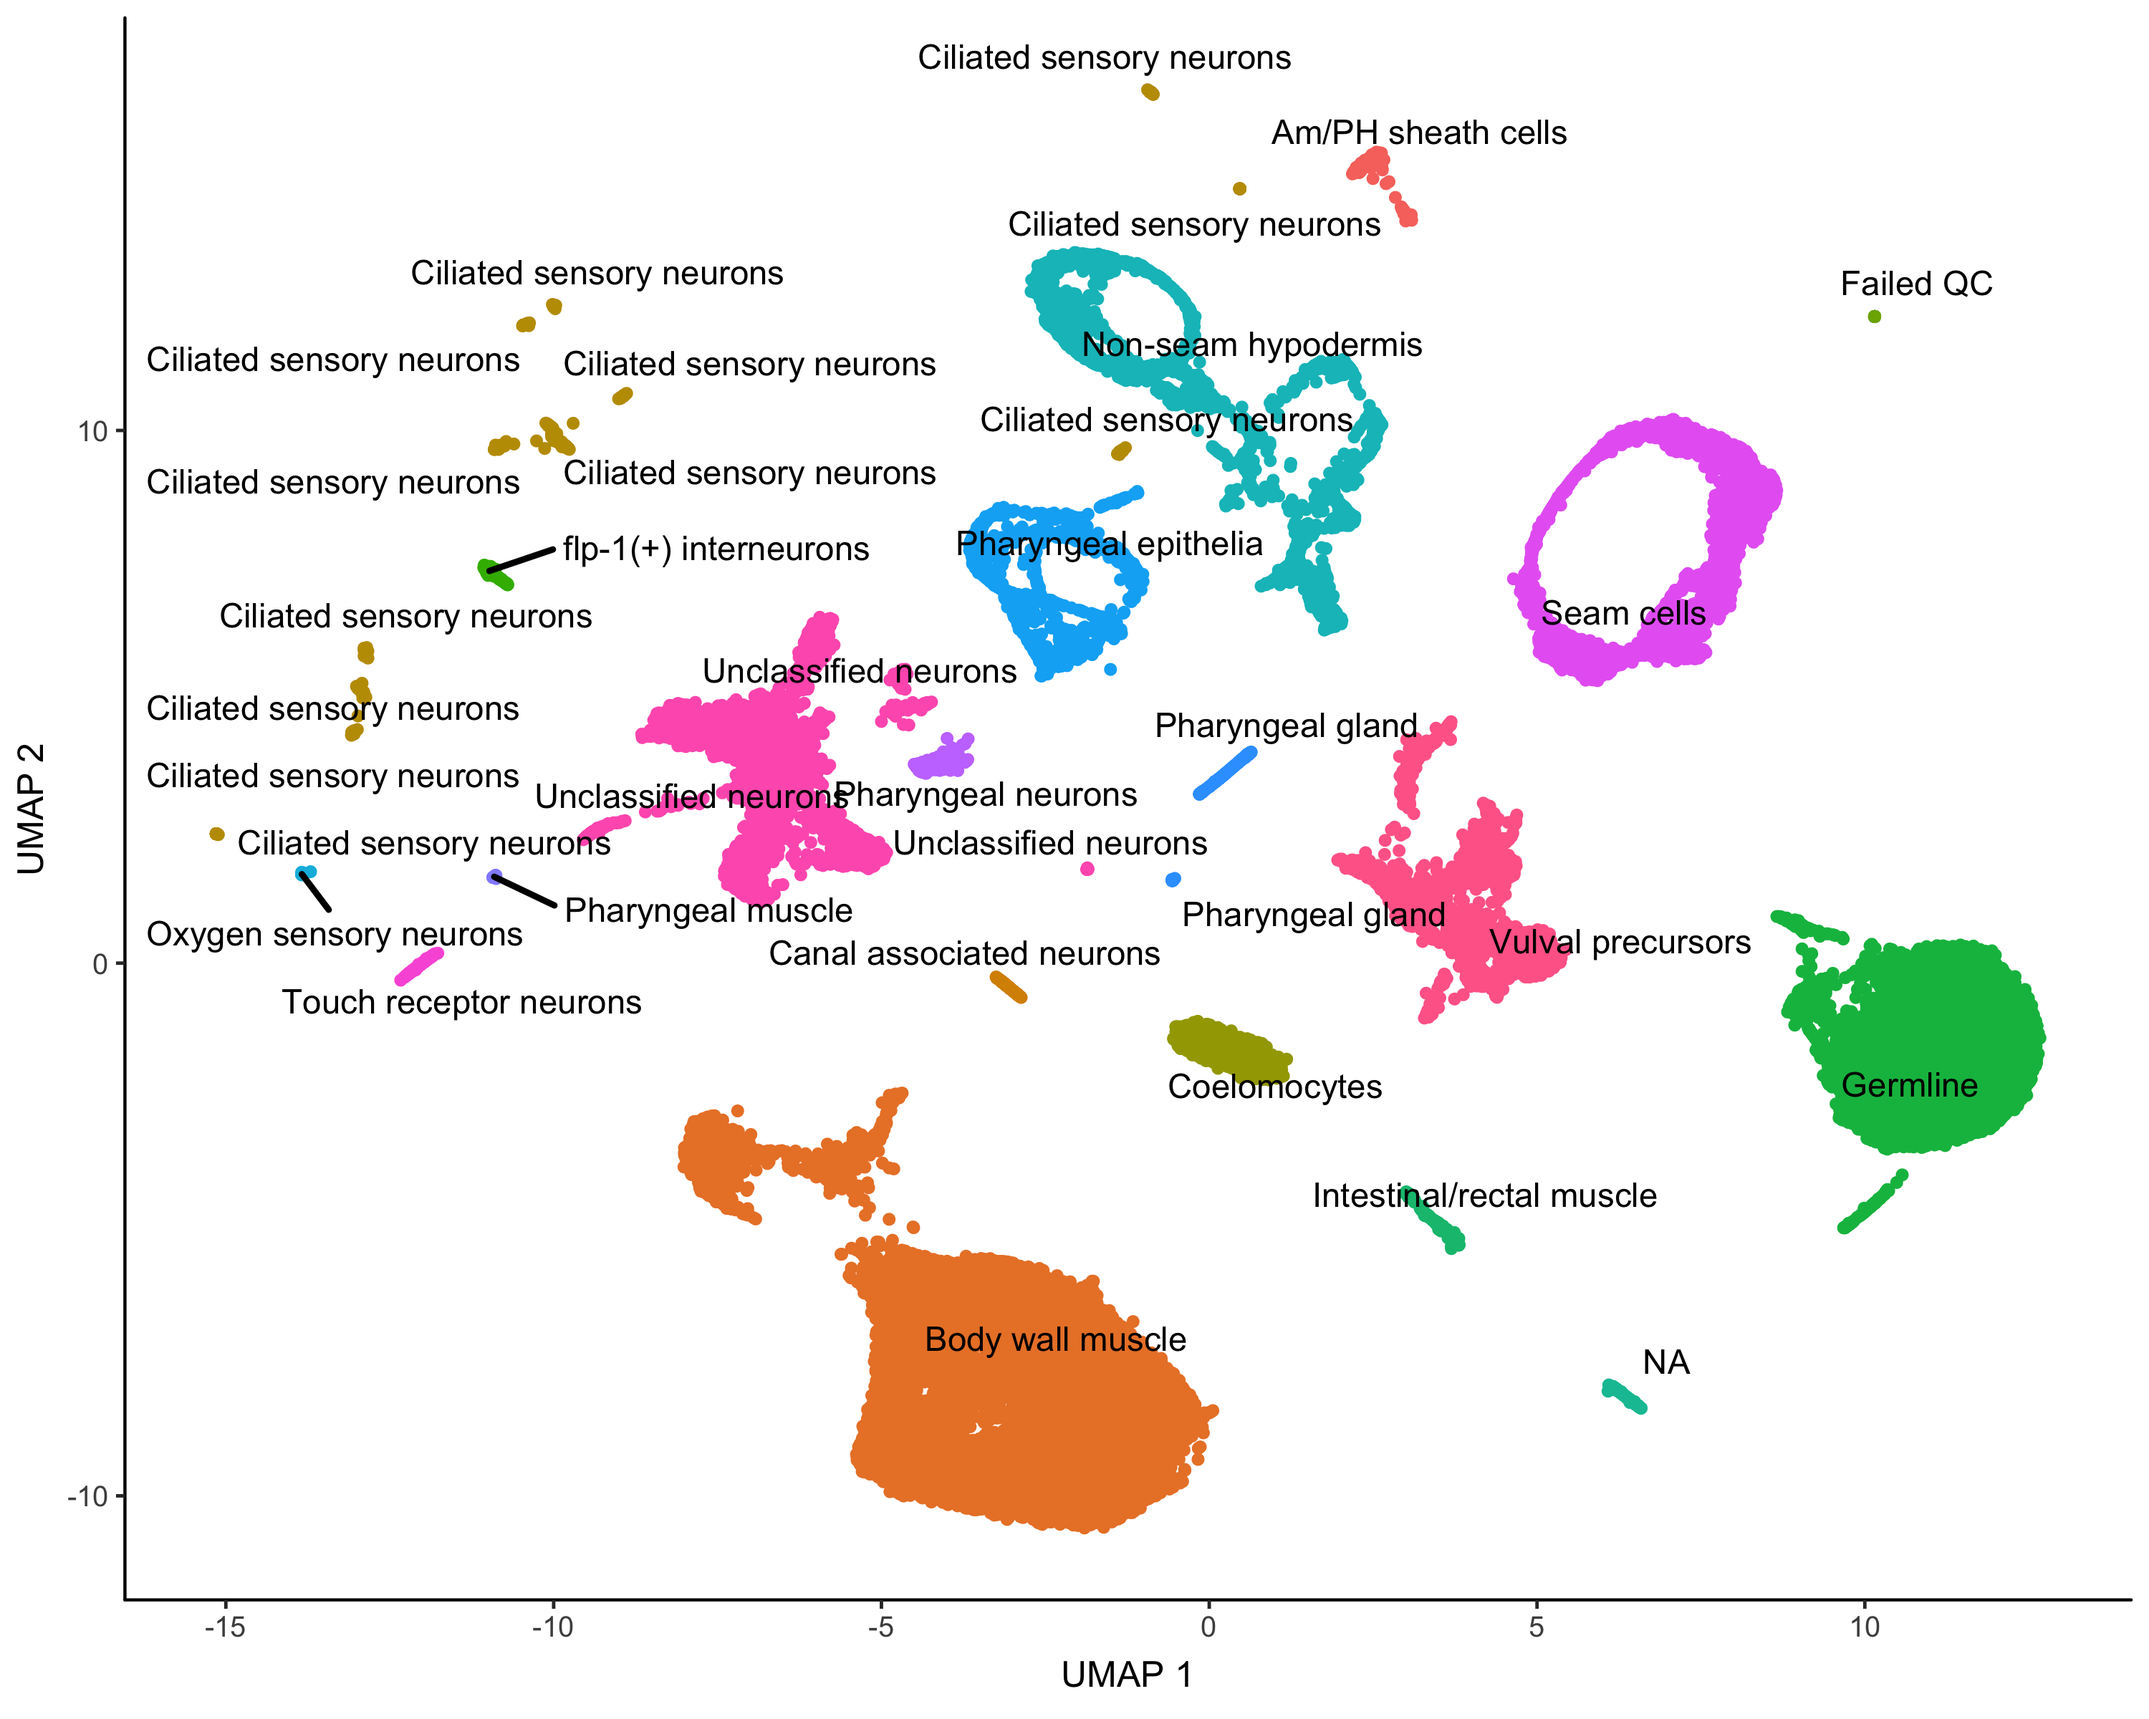
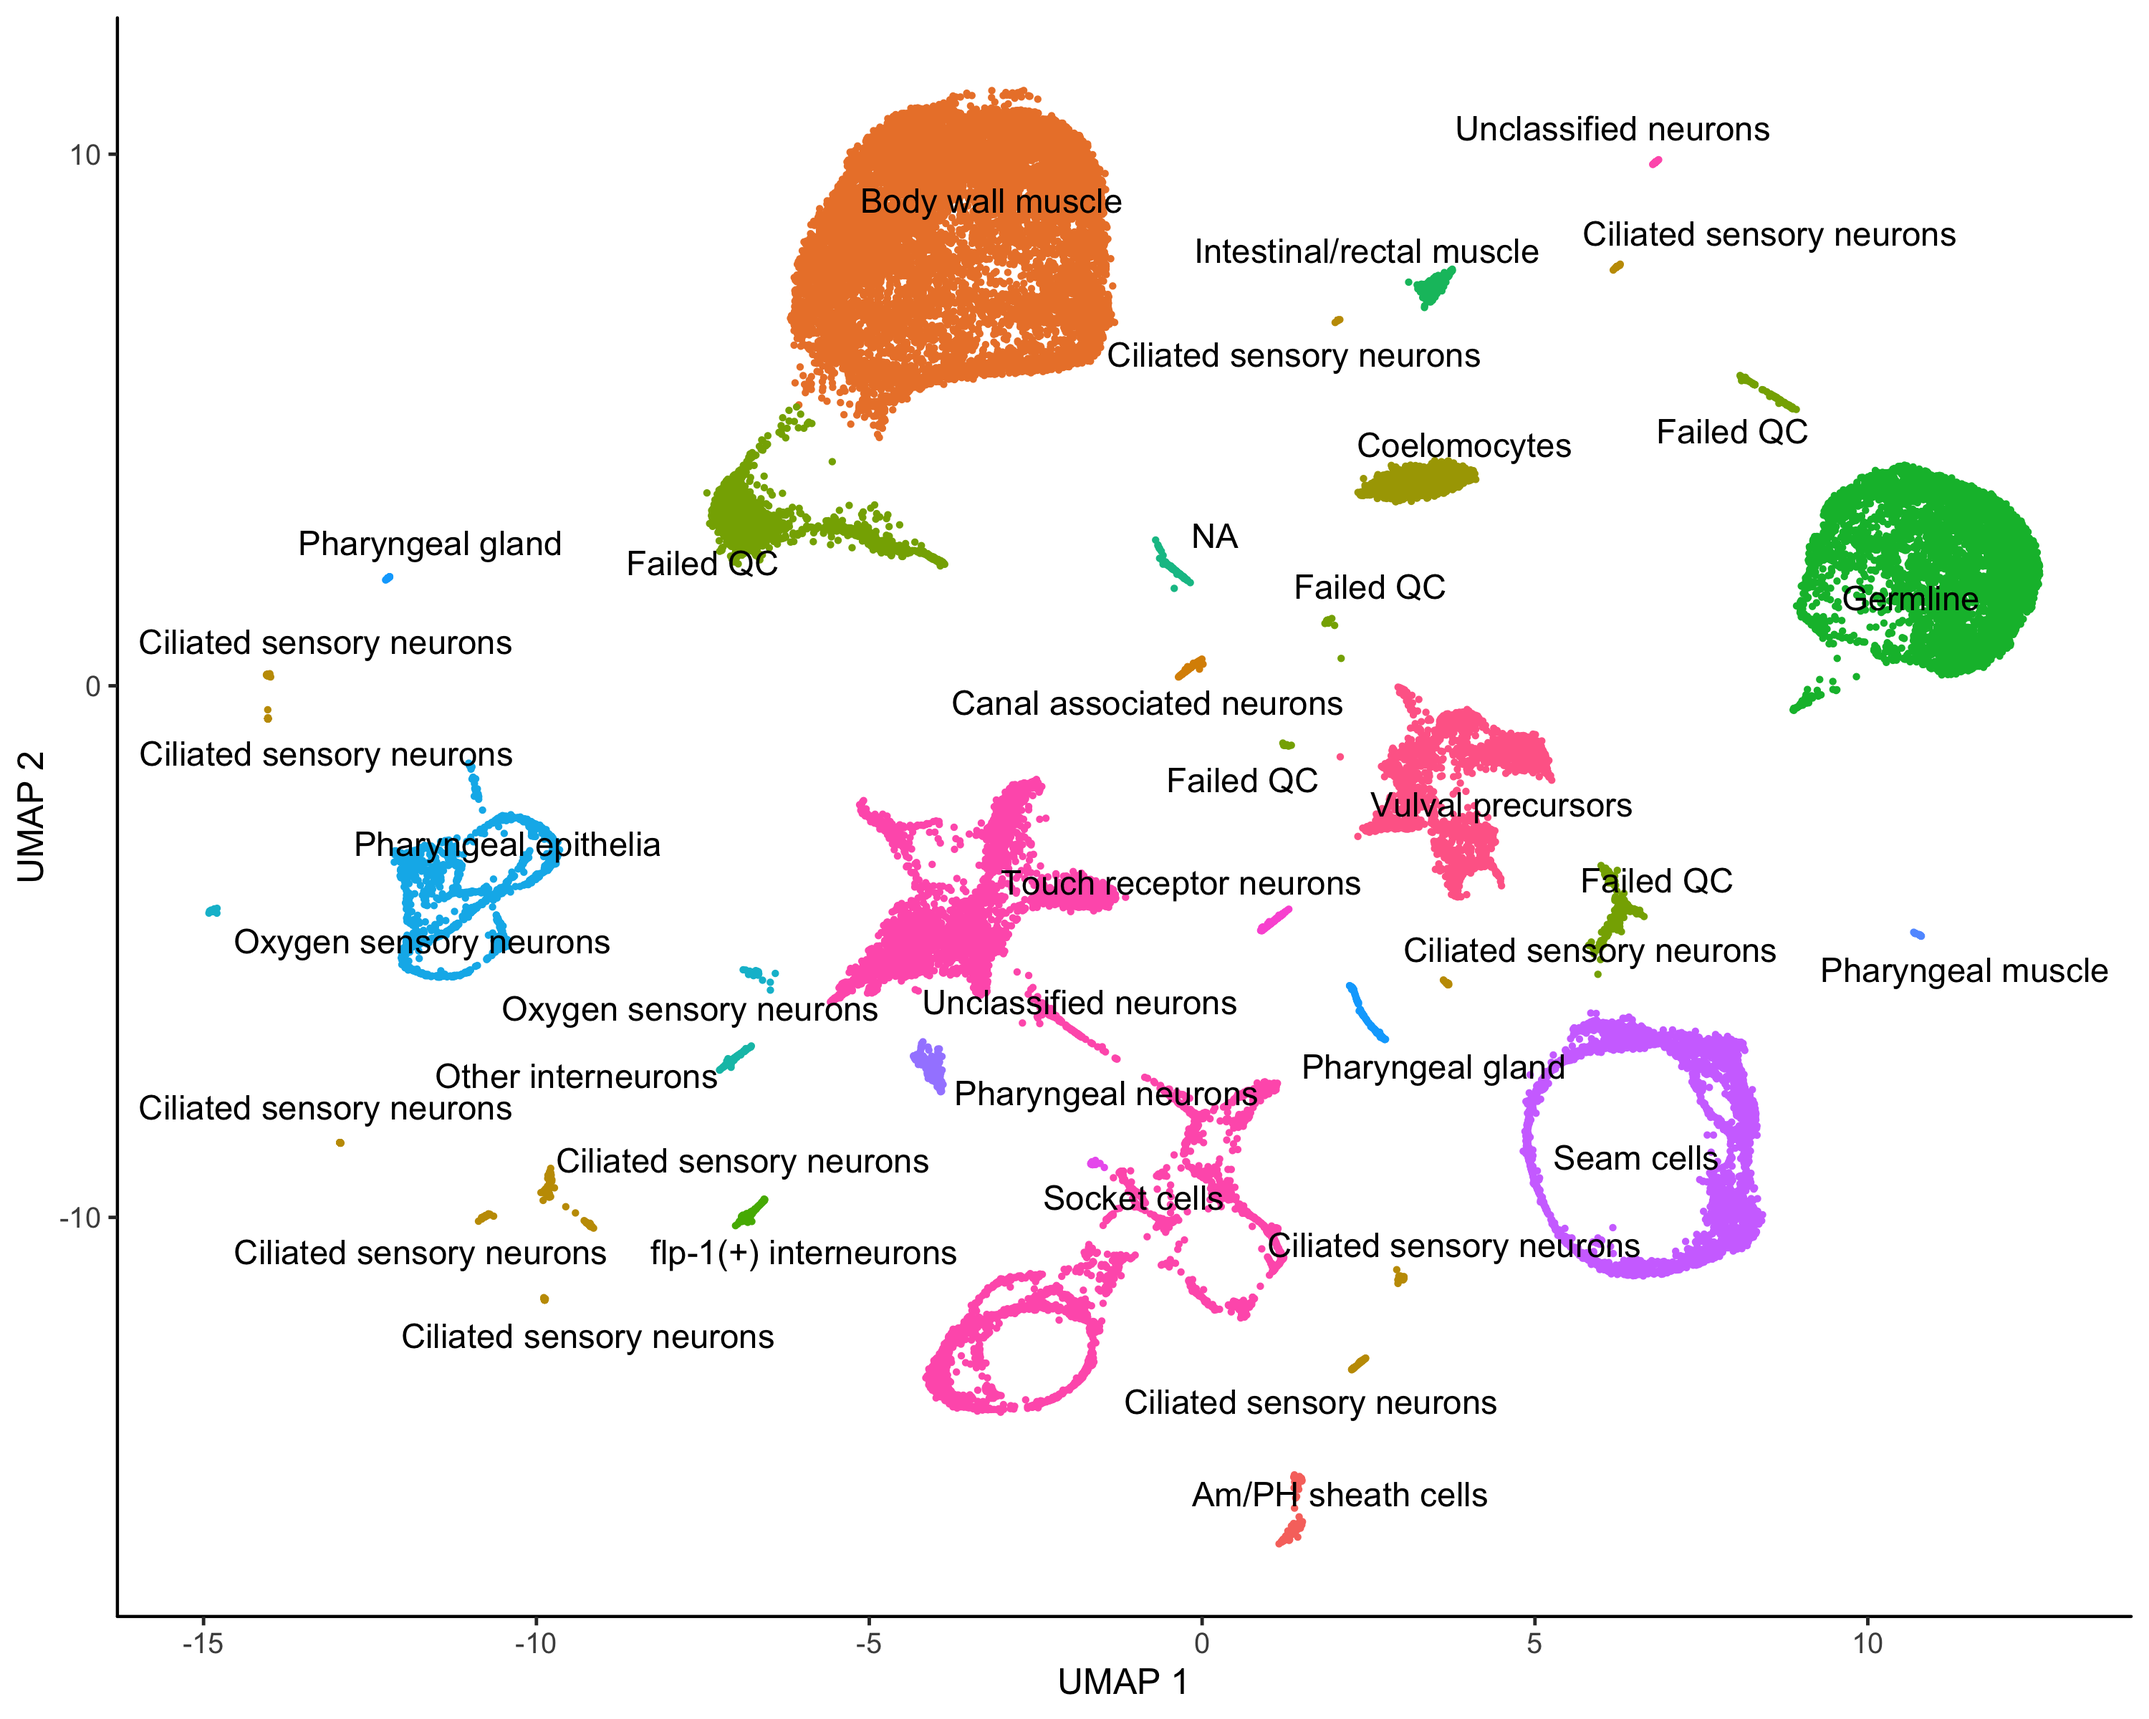
update images in clustering section for leiden and alignment

diff --git a/docs/clustering.html b/docs/clustering.html
@@ -246,11 +246,11 @@ plot_cells(cds, color_cells_by="plate", label_cell_groups=FALSE)
       <p>Dramatic batch effects are not evident in this data. If the data contained more substantial variation due to plate, we'd expect to see groups of cells that really only come from one plate. Nevertheless, we can try and remove what batch effect is by running the <code>align_cds()</code> function: </p>
 
       
-      {% highlight R %}
-      cds = align_cds(cds, num_dim = 100, alignment_group = "~ plate")
-      cds = reduce_dimension(cds)
-      plot_cells(cds, color_cells_by="plate", label_cell_groups=FALSE)
-      {% endhighlight %}
+{% highlight R %}
+cds = align_cds(cds, num_dim = 100, alignment_group = "~ plate")
+cds = reduce_dimension(cds)
+plot_cells(cds, color_cells_by="plate", label_cell_groups=FALSE)
+{% endhighlight %}
       
 
       <p>When run with the <code>alignment_group</code> argument, <code>align_cds()</code> tries to remove batch effects using <a href="https://doi.org/10.1038/nbt.4091">mutual nearest neighbor alignment</a>, a technique introduced by John Marioni's lab. Monocle 3 does so by calling Aaron Lun's excellent package <a href="https://bioconductor.org/packages/release/bioc/html/batchelor.html">batchelor</a>. If you use <code>align_cds()</code>, be sure to call <a href="{{ site.baseurl }}/monocle3_docs/#citations"><code>get_citations()</code></a> to see how you should cite the software on which Monocle depends. </p>
@@ -271,7 +271,7 @@ plot_cells(cds)
 {% endhighlight %}
       
       <div class= "text-center">
-        <img src= "{{site.baseurl}}/images/manual_images/L2_umap_color_by_cluster.png" width= 760>
+        <img src= "{{site.baseurl}}/images/manual_images/L2_umap_color_cells_by_cluster.png" width= 760>
       </div>
       
       <p>
@@ -423,41 +423,45 @@ colData(cds)$assigned_cell_type <- as.character(partitions(cds))
         remap each cluster to a different cell type:
       </p>
 {% highlight R %}
-colData(cds)$assigned_cell_type <- dplyr::recode(colData(cds)$assigned_cell_type,
-                                                 "1"="Body wall muscle",
-                                                 "2"="Germline",
-                                                 "3"="Unclassified neurons",
-                                                 "4"="Seam cells",
-                                                 "5"="Coelomocytes",
-                                                 "6"="Pharyngeal epithelia",
-                                                 "7"="Vulval precursors",
-                                                 "8"="Non-seam hypodermis",
-                                                 "9"="Intestinal/rectal muscle",
-                                                 "10"="Touch receptor neurons",
-                                                 "11"="Pharyngeal neurons",
-                                                 "12"="Am/PH sheath cells",
-                                                 "13"="NA",
-                                                 "14"="Unclassified neurons",
-                                                 "15"="flp-1(+) interneurons",
-                                                 "16"="Canal associated neurons",
-                                                 "17"="Pharyngeal gland",
-                                                 "18"="Other interneurons",
-                                                 "19"="Ciliated sensory neurons",
-                                                 "20"="Ciliated sensory neurons",
-                                                 "21"="Ciliated sensory neurons",
-                                                 "22"="Ciliated sensory neurons",
-                                                 "23"="Ciliated sensory neurons",
-                                                 "24"="Ciliated sensory neurons",
-                                                 "25"="Oxygen sensory neurons",
-                                                 "26"="Ciliated sensory neurons",
-                                                 "27"="Unclassified neurons",
-                                                 "28"="Pharyngeal gland",
-                                                 "29"="Ciliated sensory neurons",
-                                                 "30"="Ciliated sensory neurons",
-                                                 "31"="Ciliated sensory neurons",
-                                                 "32"="Ciliated sensory neurons",
-                                                 "33"="Pharyngeal muscle",
-                                                 "34"="Failed QC")
+colData(cds)$assigned_cell_type = dplyr::recode(colData(cds)$assigned_cell_type,
+                                                "1"="Germline",
+                                                "2"="Body wall muscle",
+                                                "3"="Unclassified neurons",
+                                                "4"="Vulval precursors",
+                                                "5"="Failed QC",
+                                                "6"="Seam cells",
+                                                "7"="Pharyngeal epithelia",
+                                                "8"="Coelomocytes",
+                                                "9"="Am/PH sheath cells",
+                                                "10"="Failed QC",
+                                                "11"="Touch receptor neurons",
+                                                "12"="Intestinal/rectal muscle",
+                                                "13"="Pharyngeal neurons",
+                                                "14"="NA",
+                                                "15"="flp-1(+) interneurons",
+                                                "16"="Canal associated neurons",
+                                                "17"="Ciliated sensory neurons",
+                                                "18"="Other interneurons",
+                                                "19"="Pharyngeal gland",
+                                                "20"="Failed QC",
+                                                "21"="Ciliated sensory neurons",
+                                                "22"="Oxygen sensory neurons",
+                                                "23"="Ciliated sensory neurons",
+                                                "24"="Ciliated sensory neurons",
+                                                "25"="Ciliated sensory neurons",
+                                                "26"="Ciliated sensory neurons",
+                                                "27"="Oxygen sensory neurons",
+                                                "28"="Ciliated sensory neurons",
+                                                "29"="Unclassified neurons",
+                                                "30"="Socket cells",
+                                                "31"="Failed QC",
+                                                "32"="Pharyngeal gland",
+                                                "33"="Ciliated sensory neurons",
+                                                "34"="Ciliated sensory neurons",
+                                                "35"="Ciliated sensory neurons",
+                                                "36"="Failed QC",
+                                                "37"="Ciliated sensory neurons",
+                                                "38"="Pharyngeal muscle")
 {% endhighlight %}
       
       <p>Let's see how the new annotations look:</p>
@@ -527,10 +531,11 @@ plot_cells(cds_subset, genes=gene_module_df,
       <p>
         You can explore the genes in each module or conduct <a href="http://geneontology.org/">gene ontology enrichment analysis</a> 
         on them to glean insights about which cell types are present. Suppose after doing this we have a good idea of what the cell 
-        types in the partition are. Let's see how they overlap with the clusters in the partition:
+        types in the partition are. Let's recluster the cells at finer resolution and then see how they overlap with the clusters in the partition:
       </p>
 
 {% highlight R %}
+cds_subset = cluster_cells(cds_subset, resolution=1e-2)
 plot_cells(cds_subset, color_cells_by="cluster")
 {% endhighlight %}
       
@@ -542,11 +547,16 @@ plot_cells(cds_subset, color_cells_by="cluster")
 {% highlight R %}
 colData(cds_subset)$assigned_cell_type <- as.character(clusters(cds_subset)[colnames(cds_subset)])
 colData(cds_subset)$assigned_cell_type <- dplyr::recode(colData(cds_subset)$assigned_cell_type,
-                                                        "30"="Vulval precursors",
-                                                        "65"="Distal tip cells",
-                                                        "24"="Sex myoblasts",
-                                                        "51"="Sex myoblasts",
-                                                        "33"="Somatic gonad progenitors")
+                                                        "1"="Somatic gonad precursors",
+                                                        "2"="Somatic gonad precursors",
+                                                        "3"="Vulval precursors",
+                                                        "4"="Sex myoblasts",
+                                                        "5"="Sex myoblasts",
+                                                        "6"="Vulval precursors",
+                                                        "7"="Failed QC",
+                                                        "8"="Vulval precursors",
+                                                        "10"="Unclassified neurons",
+                                                        "11"="Distal tip cells")
 plot_cells(cds_subset, group_cells_by="cluster", color_cells_by="assigned_cell_type")
 {% endhighlight %}
       
@@ -630,7 +640,7 @@ expressed: daf-10, flp-1, nlp-10, zig-2, H05L03.3
 
 > Cell type Sex myoblasts
 expressed: egl-15, C04E12.2
-      
+
 > Cell type Intestinal/rectal muscle
 expressed: egl-20, lbp-2, bgal-1, ttr-10, T23B12.8
 

diff --git a/docs/differential.html b/docs/differential.html
@@ -461,7 +461,7 @@ cds <- new_cell_data_set(expression_matrix,
                          cell_metadata = cell_metadata,
                          gene_metadata = gene_annotation)
 
-neurons_cds <- cds[,colData(cds)$assigned_cell_type == "Neurons"]
+neurons_cds <- cds[,grepl("neurons", colData(cds)$assigned_cell_type, ignore.case=TRUE)]
 plot_cells(neurons_cds, color_cells_by="partition")
 {% endhighlight %}
       
@@ -545,7 +545,7 @@ pheatmap::pheatmap(agg_mat, cluster_rows=TRUE, cluster_cols=TRUE,
       
 {% highlight R %}
 plot_cells(neurons_cds, 
-           genes=gene_module_df %>% filter(module %in% c(16,38,33,42)),
+           genes=gene_module_df %>% filter(module %in% c(8, 28, 33, 37)),
            group_cells_by="partition",
            color_cells_by="partition",
            show_trajectory_graph=FALSE)
@@ -694,7 +694,7 @@ cds_subset <- choose_cells(cds)
         set of genes.
       </p>
 {% highlight R %}
-subset_pr_test_res <- graph_test(cds_subset, cores=4)
+subset_pr_test_res <- graph_test(cds_subset, neighbor_graph="principal_graph", cores=4)
 pr_deg_ids <- row.names(subset(subset_pr_test_res, q_value < 0.05))
 {% endhighlight %}
       
